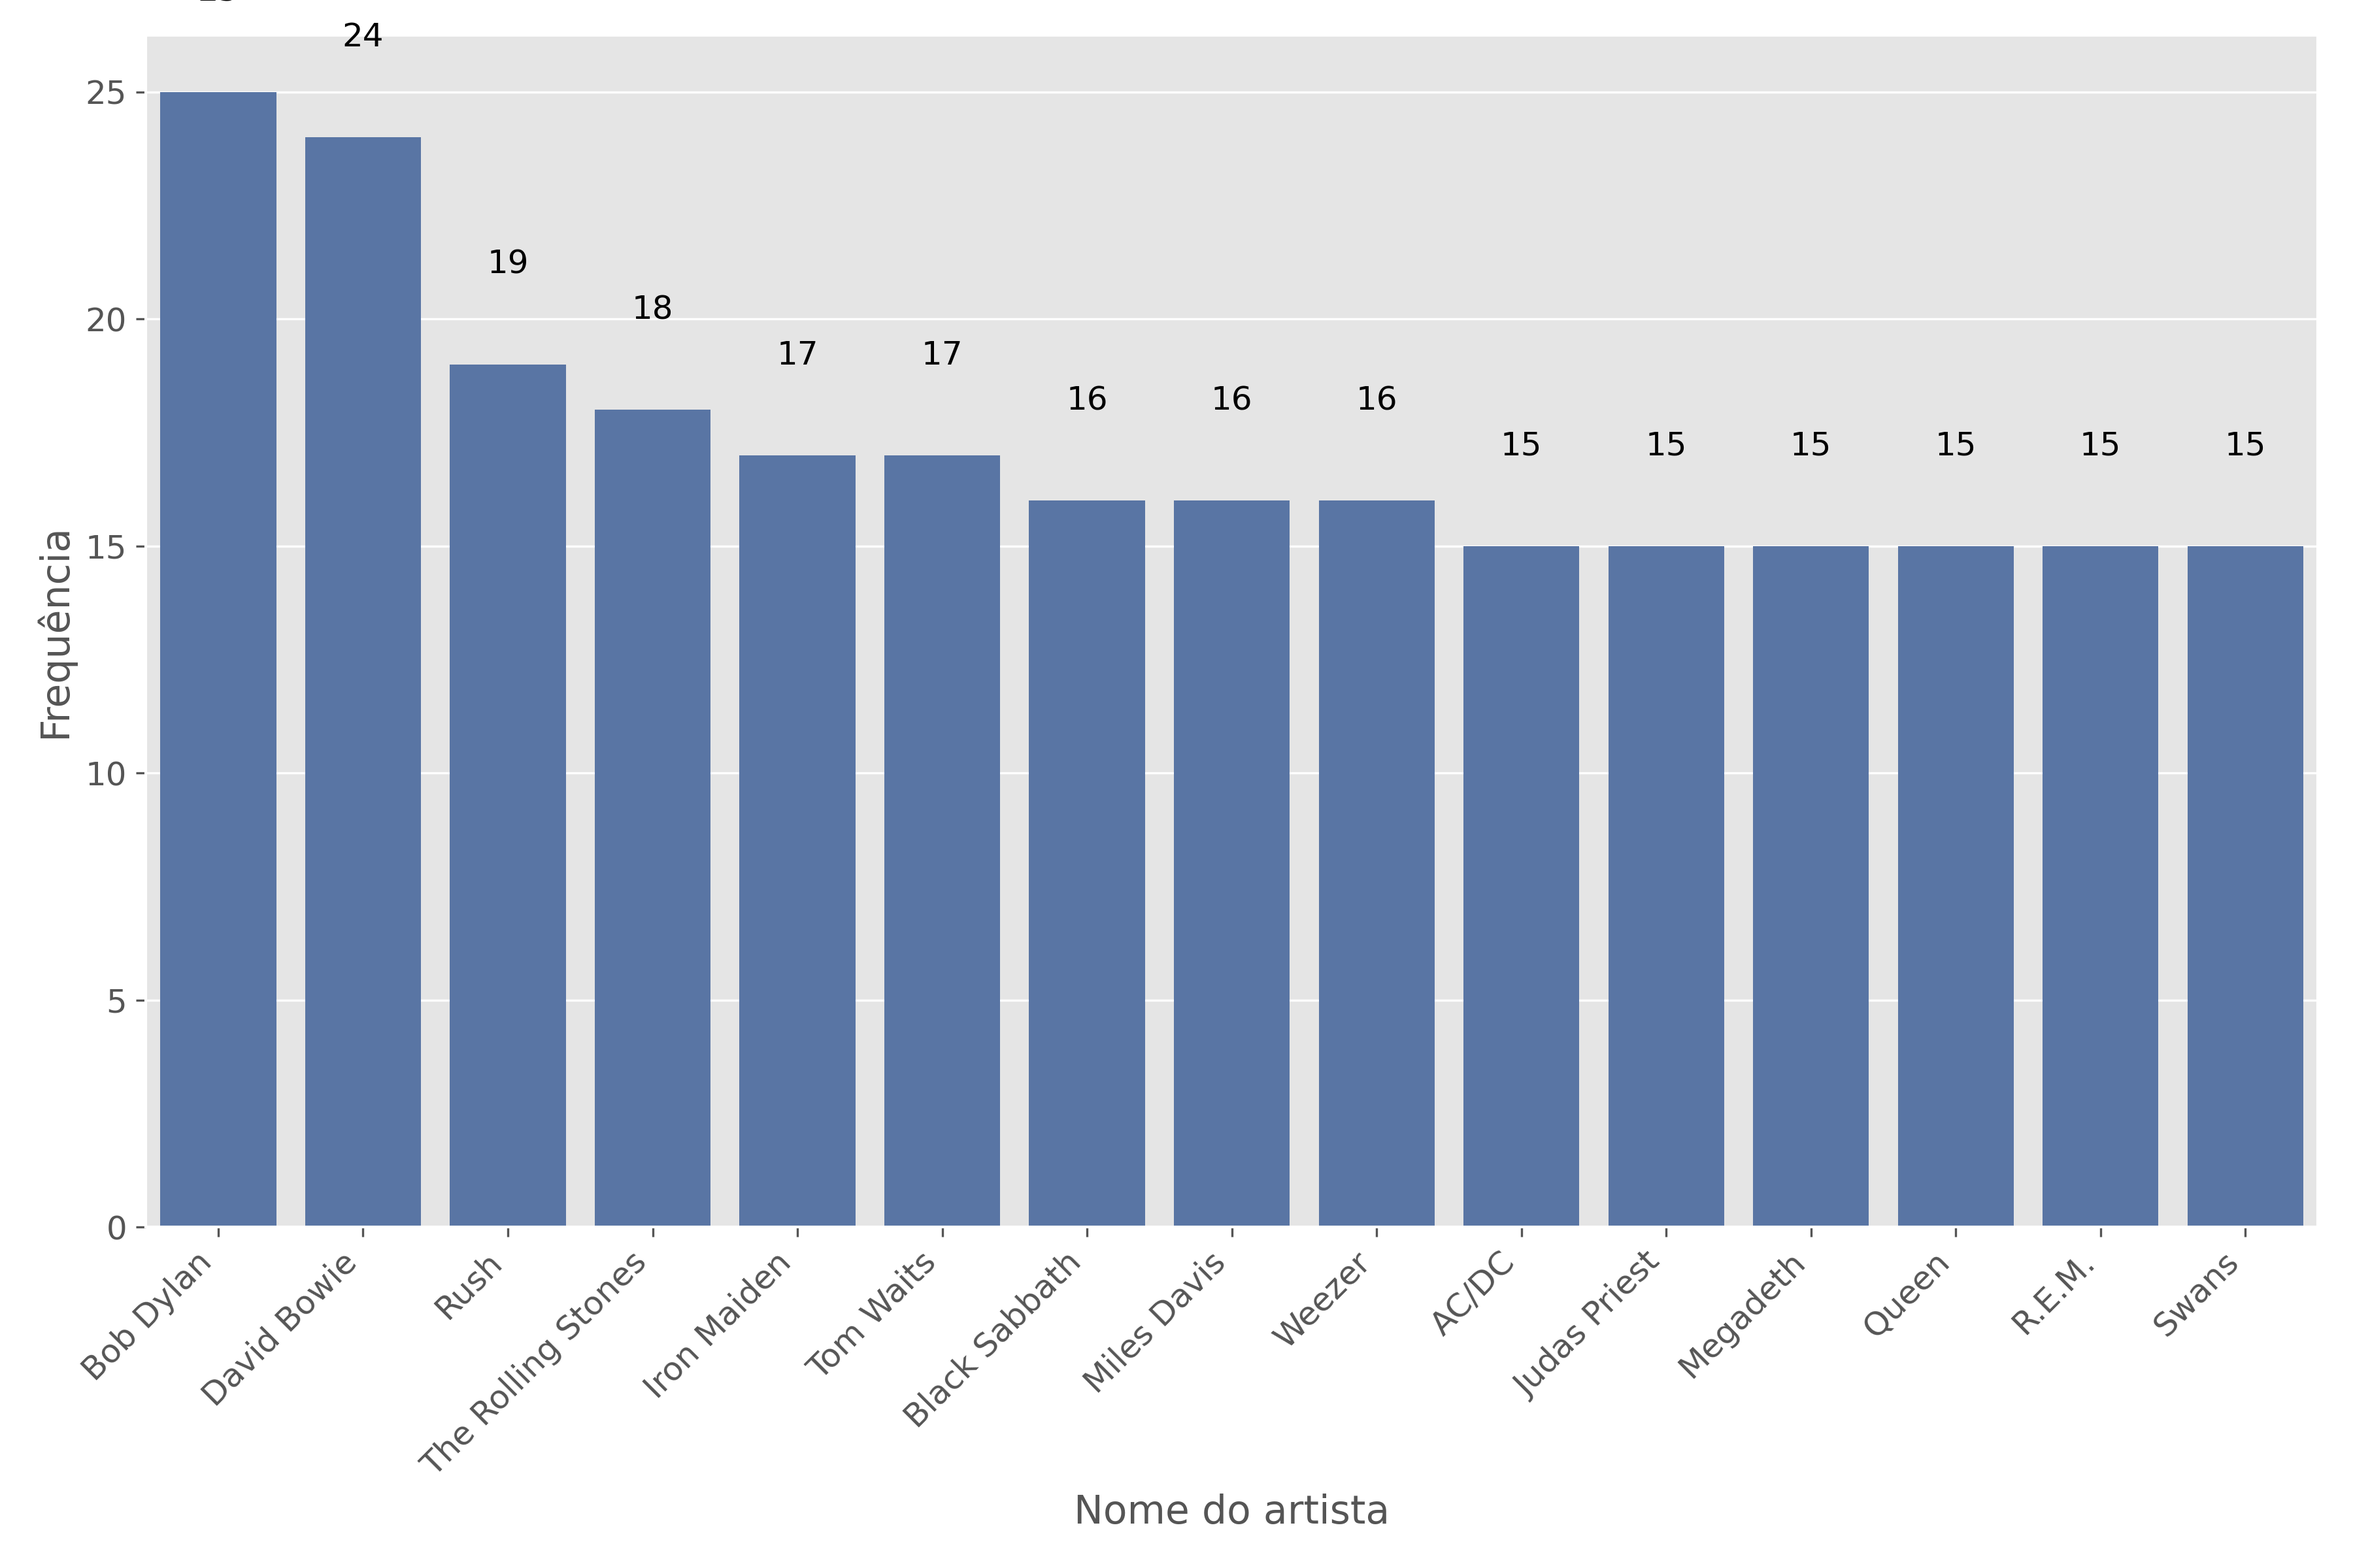
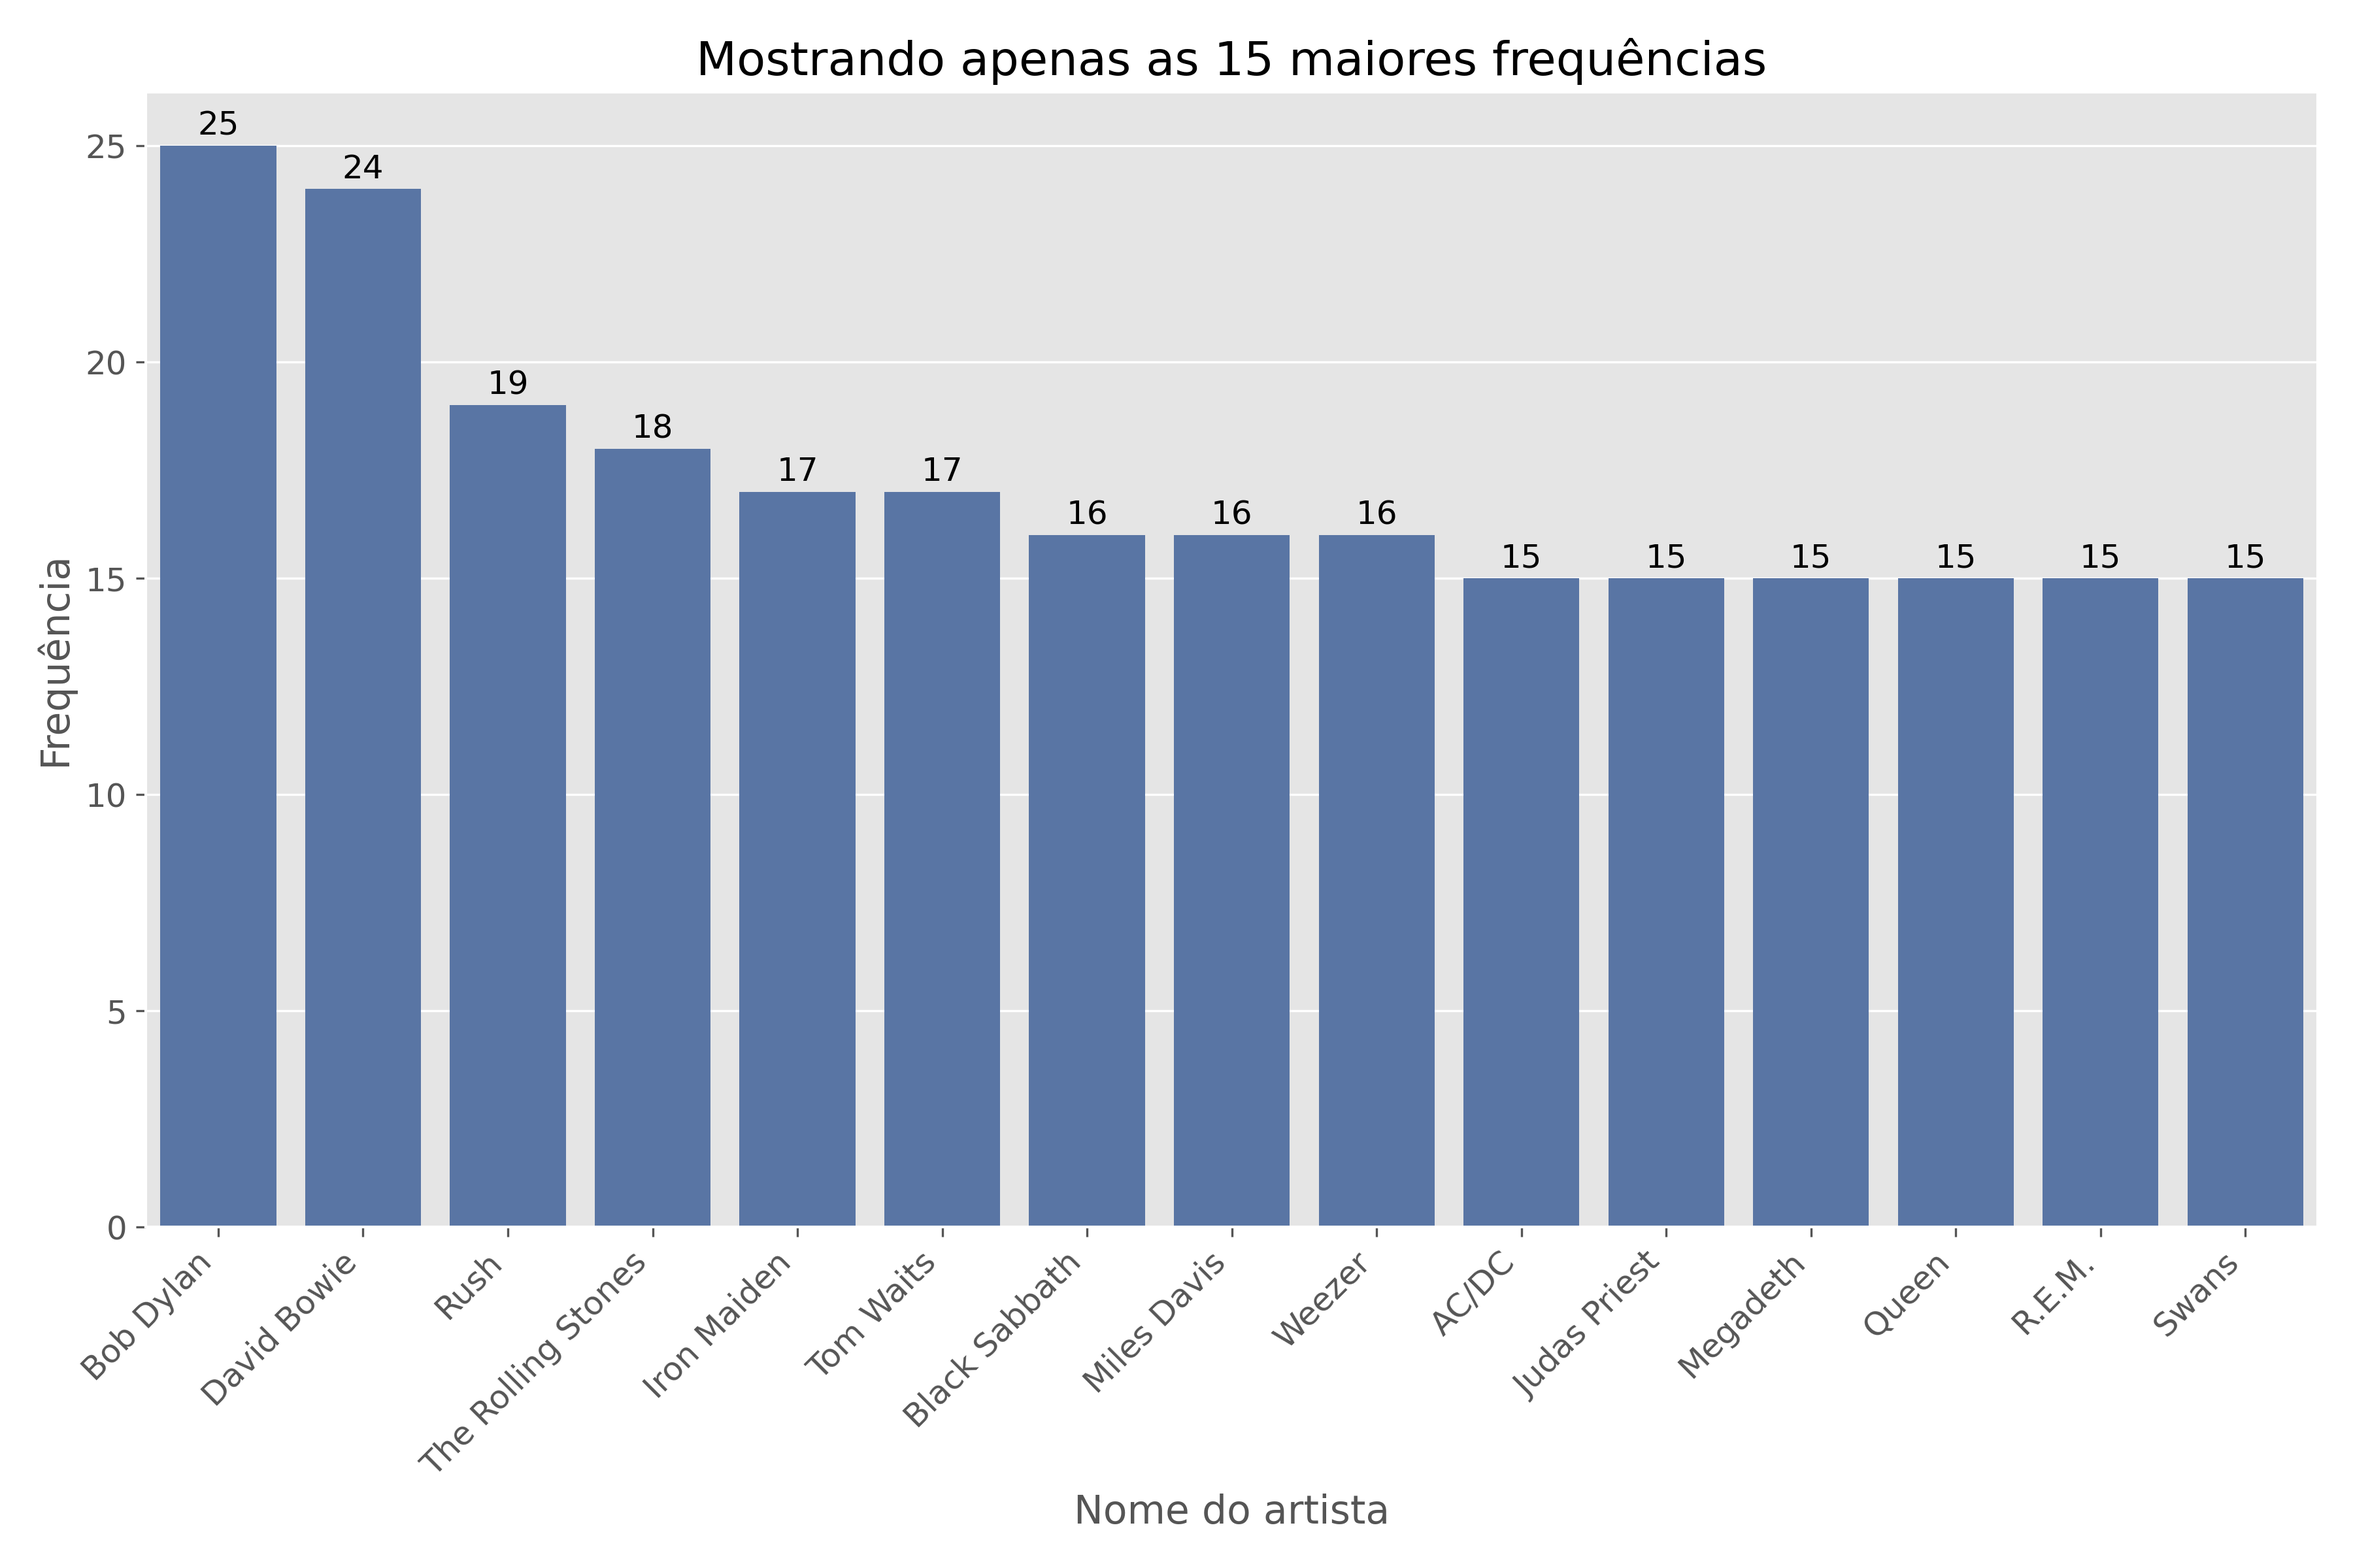
Achatar grafico numero resenhas (#1)
* pra continuar em casa

* fix: arruma gráfico de frequência do número de resenhas e conserta código que conta a frequência dos intervalos para variáveis quantitativas

* fix: now review_count has 2 freq tables

diff --git a/atividade_1/src/frequency_tables.py b/atividade_1/src/frequency_tables.py
@@ -3,6 +3,7 @@ Módulo para construção das tabelas de frequência
 """
 
 import csv
+import os
 from datetime import datetime, timedelta
 from typing import Iterable
 
@@ -152,7 +153,26 @@ def generate_quantitative_tables() -> None:
         # Cria as bordas dos intervalos para as classes
         bin_edges = create_bin_edges(variable, min_val, max_val, nbins)
 
-        
+        suffix = ''
+        if variable == "review_count":
+            # Gambiarra necessária
+            # Primeiro cria a tabela original, sem ajustes para o gráfico
+            
+            labels = create_class_labels(variable, bin_edges, nbins)
+            freq_bins = calculate_class_frequencies(variable, values, bin_edges, nbins)
+            create_and_save_table(variable, labels, freq_bins)
+
+            # Ajusta os intervalos para que o gráfico fique com boas proporções
+            # Uma nova tabela de frequência será gerada só para gráfico
+            bin_edges = bin_edges.tolist()
+            bin_edges.insert(1, 70)
+            last = bin_edges[-1]
+            bin_edges = bin_edges[:8]
+            bin_edges[-1] = last
+            nbins = len(bin_edges) - 1
+            
+            suffix = '_ajustado'
+
         # Cria rótulos descritivos para as classes
         labels = create_class_labels(variable, bin_edges, nbins)
 
@@ -160,7 +180,7 @@ def generate_quantitative_tables() -> None:
         freq_bins = calculate_class_frequencies(variable, values, bin_edges, nbins)
 
         # Cria a tabela e salva como CSV
-        create_and_save_table(variable, labels, freq_bins)
+        create_and_save_table(variable, labels, freq_bins, suffix)
 
 
 def collect_variable_values(variable: str) -> list[tuple]:
@@ -295,10 +315,13 @@ def calculate_class_frequencies(variable: str, values: list[tuple], bin_edges: l
                 # Se for o valor máximo, garantimos que fique na última classe
                 bin_index = nbins - 1
             else:
-                # Cálculo proporcional para determinar a classe
-                min_val = min(val for val, _ in values)
-                max_val = max(val for val, _ in values)
-                bin_index = int((val - min_val) / (max_val - min_val) * nbins)
+                # O índice da frequência a ser incrementada é o índice que representa
+                # o intervalo ao qual o valor pertence
+                for i, (low, high) in enumerate(zip(bin_edges, bin_edges[1:])):
+                    if low <= val <= high:
+                        bin_index = i
+                        break
+
                 # Proteção contra valores fora dos limites
                 bin_index = min(bin_index, nbins - 1)
 
@@ -307,7 +330,7 @@ def calculate_class_frequencies(variable: str, values: list[tuple], bin_edges: l
     return freq_bins
 
 
-def create_and_save_table(variable: str, labels: list, freq_bins: list) -> None:
+def create_and_save_table(variable: str, labels: list, freq_bins: list, file_suffix: str = '') -> None:
     """
     Cria a tabela de frequência e salva como CSV.
 
@@ -320,7 +343,7 @@ def create_and_save_table(variable: str, labels: list, freq_bins: list) -> None:
     table = {variable: labels, "Frequência": freq_bins}
     df = pd.DataFrame(table)
     df = add_relative_frequency(df)
-    df.to_csv(f"outputs/{variable}_table.csv", index=False)
+    df.to_csv(f"outputs/{variable}{file_suffix}_table.csv", index=False)
 
 
 def generate_frequency_tables() -> None:

diff --git a/atividade_1/src/variables_graphs.py b/atividade_1/src/variables_graphs.py
@@ -31,7 +31,6 @@ def plot_qualitative_graph(filename: str):
     
     plt.figure(figsize=(12, 8))
     
-    df["Frequência"].max()
     # Gráfico de barras
     ax = sns.barplot(x=filename, y="Frequência", data=df)
     plt.title("Mostrando apenas as 15 maiores frequências")
@@ -40,8 +39,9 @@ def plot_qualitative_graph(filename: str):
     plt.tight_layout()
     
     # Adiciona os valores sobre as barras
+    max_value = df["Frequência"].max()
     for i, v in enumerate(df["Frequência"]):
-        ax.text(i, v + 2, str(v), ha='center')
+        ax.text(i, v + 0.01 * max_value, str(v), ha='center')
     
     # Salva o gráfico
     plt.savefig(f"outputs/{filename}_grafico.png", dpi=300)
@@ -56,7 +56,10 @@ def plot_quantitative_graph(filename: str):
     """
 
     # Lê o arquivo CSV
-    df = pd.read_csv(f"outputs/{filename}_table.csv")
+    path = f"outputs/{filename}_table.csv"
+    if filename == "Número de resenhas":
+        path = f"outputs/{filename}_ajustado_table.csv"
+    df = pd.read_csv(path)
     
     plt.figure(figsize=(12, 8))
     
